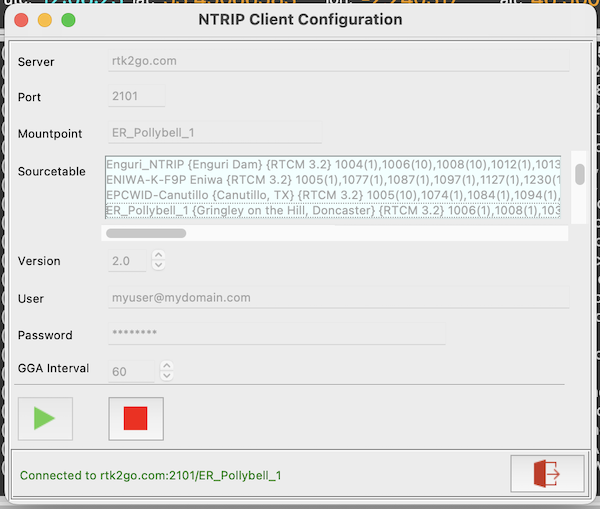
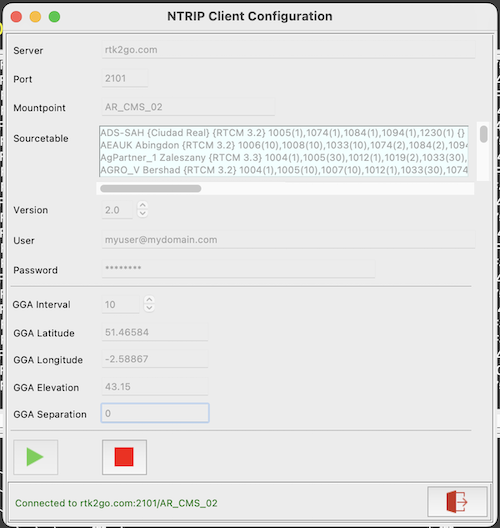
enhance ntrip dialog validation

diff --git a/pygpsclient/ntrip_client_dialog.py b/pygpsclient/ntrip_client_dialog.py
@@ -52,6 +52,7 @@ from pygpsclient.globals import (
     READONLY,
     POPUP_TRANSIENT,
     CONNECTED,
+    DISCONNECTED,
 )
 from pygpsclient.strings import (
     DLGNTRIPCONFIG,
@@ -382,7 +383,7 @@ class NTRIPConfigDialog(Toplevel):
         self._get_settings()
         self.set_controls(self._connected)
 
-    def set_controls(self, status: bool, msg: tuple = None):
+    def set_controls(self, connected: bool, msg: tuple = None):
         """
         Enable or disable controls depending on connection status.
 
@@ -391,7 +392,7 @@ class NTRIPConfigDialog(Toplevel):
         """
 
         try:
-            self._connected = status
+            self._connected = connected
             if msg is None:
                 server = self._settings["server"]
                 port = self._settings["port"]
@@ -406,16 +407,13 @@ class NTRIPConfigDialog(Toplevel):
             txt, col = msg
             self.set_status(txt, col)
 
-            self._btn_disconnect.config(state=(NORMAL if status else DISABLED))
+            self._btn_disconnect.config(state=(NORMAL if connected else DISABLED))
 
             for ctl in (
                 self._spn_ntripversion,
                 self._spn_ntripggaint,
             ):
-                ctl.config(state=(DISABLED if status else READONLY))
-            # if self.__app.conn_status != CONNECTED:
-            #     self._ntrip_gga_interval.set("None")
-            #     self._spn_ntripggaint.config(state=DISABLED)
+                ctl.config(state=(DISABLED if connected else READONLY))
 
             for ctl in (
                 self._btn_connect,
@@ -424,9 +422,13 @@ class NTRIPConfigDialog(Toplevel):
                 self._ent_mountpoint,
                 self._ent_user,
                 self._ent_password,
+                self._ent_lat,
+                self._ent_lon,
+                self._ent_alt,
+                self._ent_sep,
                 self._lbx_sourcetable,
             ):
-                ctl.config(state=(DISABLED if status else NORMAL))
+                ctl.config(state=(DISABLED if connected else NORMAL))
             # refresh sourcetable listbox NB placement of call is important
             self.update_sourcetable(self.__app.ntrip_handler.settings["sourcetable"])
         except TclError:  # fudge during thread termination
@@ -570,14 +572,14 @@ class NTRIPConfigDialog(Toplevel):
         """
 
         valid = True
-        valid = valid & valid_entry(self._ent_server, VALNONBLANK)
+        valid = valid & valid_entry(self._ent_server, VALURL)
         valid = valid & valid_entry(self._ent_port, VALINT, 1, MAXPORT)
 
         if self._ntrip_gga_interval.get() != "None":  # sending GGA
             # either use all 4 fixed settings to construct GGA sentence,
             # or use live readings from connected receiver
-            if not self.__app.serial_handler.connected or (
-                self.__app.serial_handler.connected
+            if self.__app.conn_status != CONNECTED or (
+                self.__app.conn_status == CONNECTED
                 and (
                     self._ent_lat != ""
                     or self._ent_lon != ""

diff --git a/pygpsclient/helpers.py b/pygpsclient/helpers.py
@@ -566,6 +566,8 @@ def valid_entry(entry: Entry, valmode: int, low=None, high=None) -> bool:
                 valid = low < int(entry.get()) < high
             if valmode & VALFLOAT:  # float in range
                 valid = low < float(entry.get()) < high
+            if valmode & VALURL:  # valid URL
+                valid = validURL(entry.get())
     except ValueError:
         valid = False
 

diff --git a/RELEASE_NOTES.md b/RELEASE_NOTES.md
@@ -5,7 +5,8 @@
 ENHANCEMENTS:
 
 1. Console color tagging is now user-configurable. The fixed color tags that were in `globals.py` are instead loaded from a file named 'colortags' in the user's home directory (see example in project root directory). A special color tag of 'HALT' allows the user to terminate streaming when a specified string match is found - this could for example be a particular message identity or a particular attribute value.
-2. Internal refactoring to use consistent message queueing technique for all incoming data streams (eliminates code duplication & offers moderate performance improvement). 
+2. Add optional manual GGA settings (lat, lon, alt. sep) to NTRIP configuration dialog. If GGA sentence transmission is enabled, GGA sentence can either be constructed from live GNSS readings (if a receiver is connected) or from the four manual settings. If a GNSS receiver is not connected, the manual GGA settings must be used to send a GGA sentence.
+3. Internal refactoring to use consistent message queuing technique for all incoming data streams (eliminates code duplication & offers moderate performance improvement). 
 
 ### RELEASE v1.3.0
 
